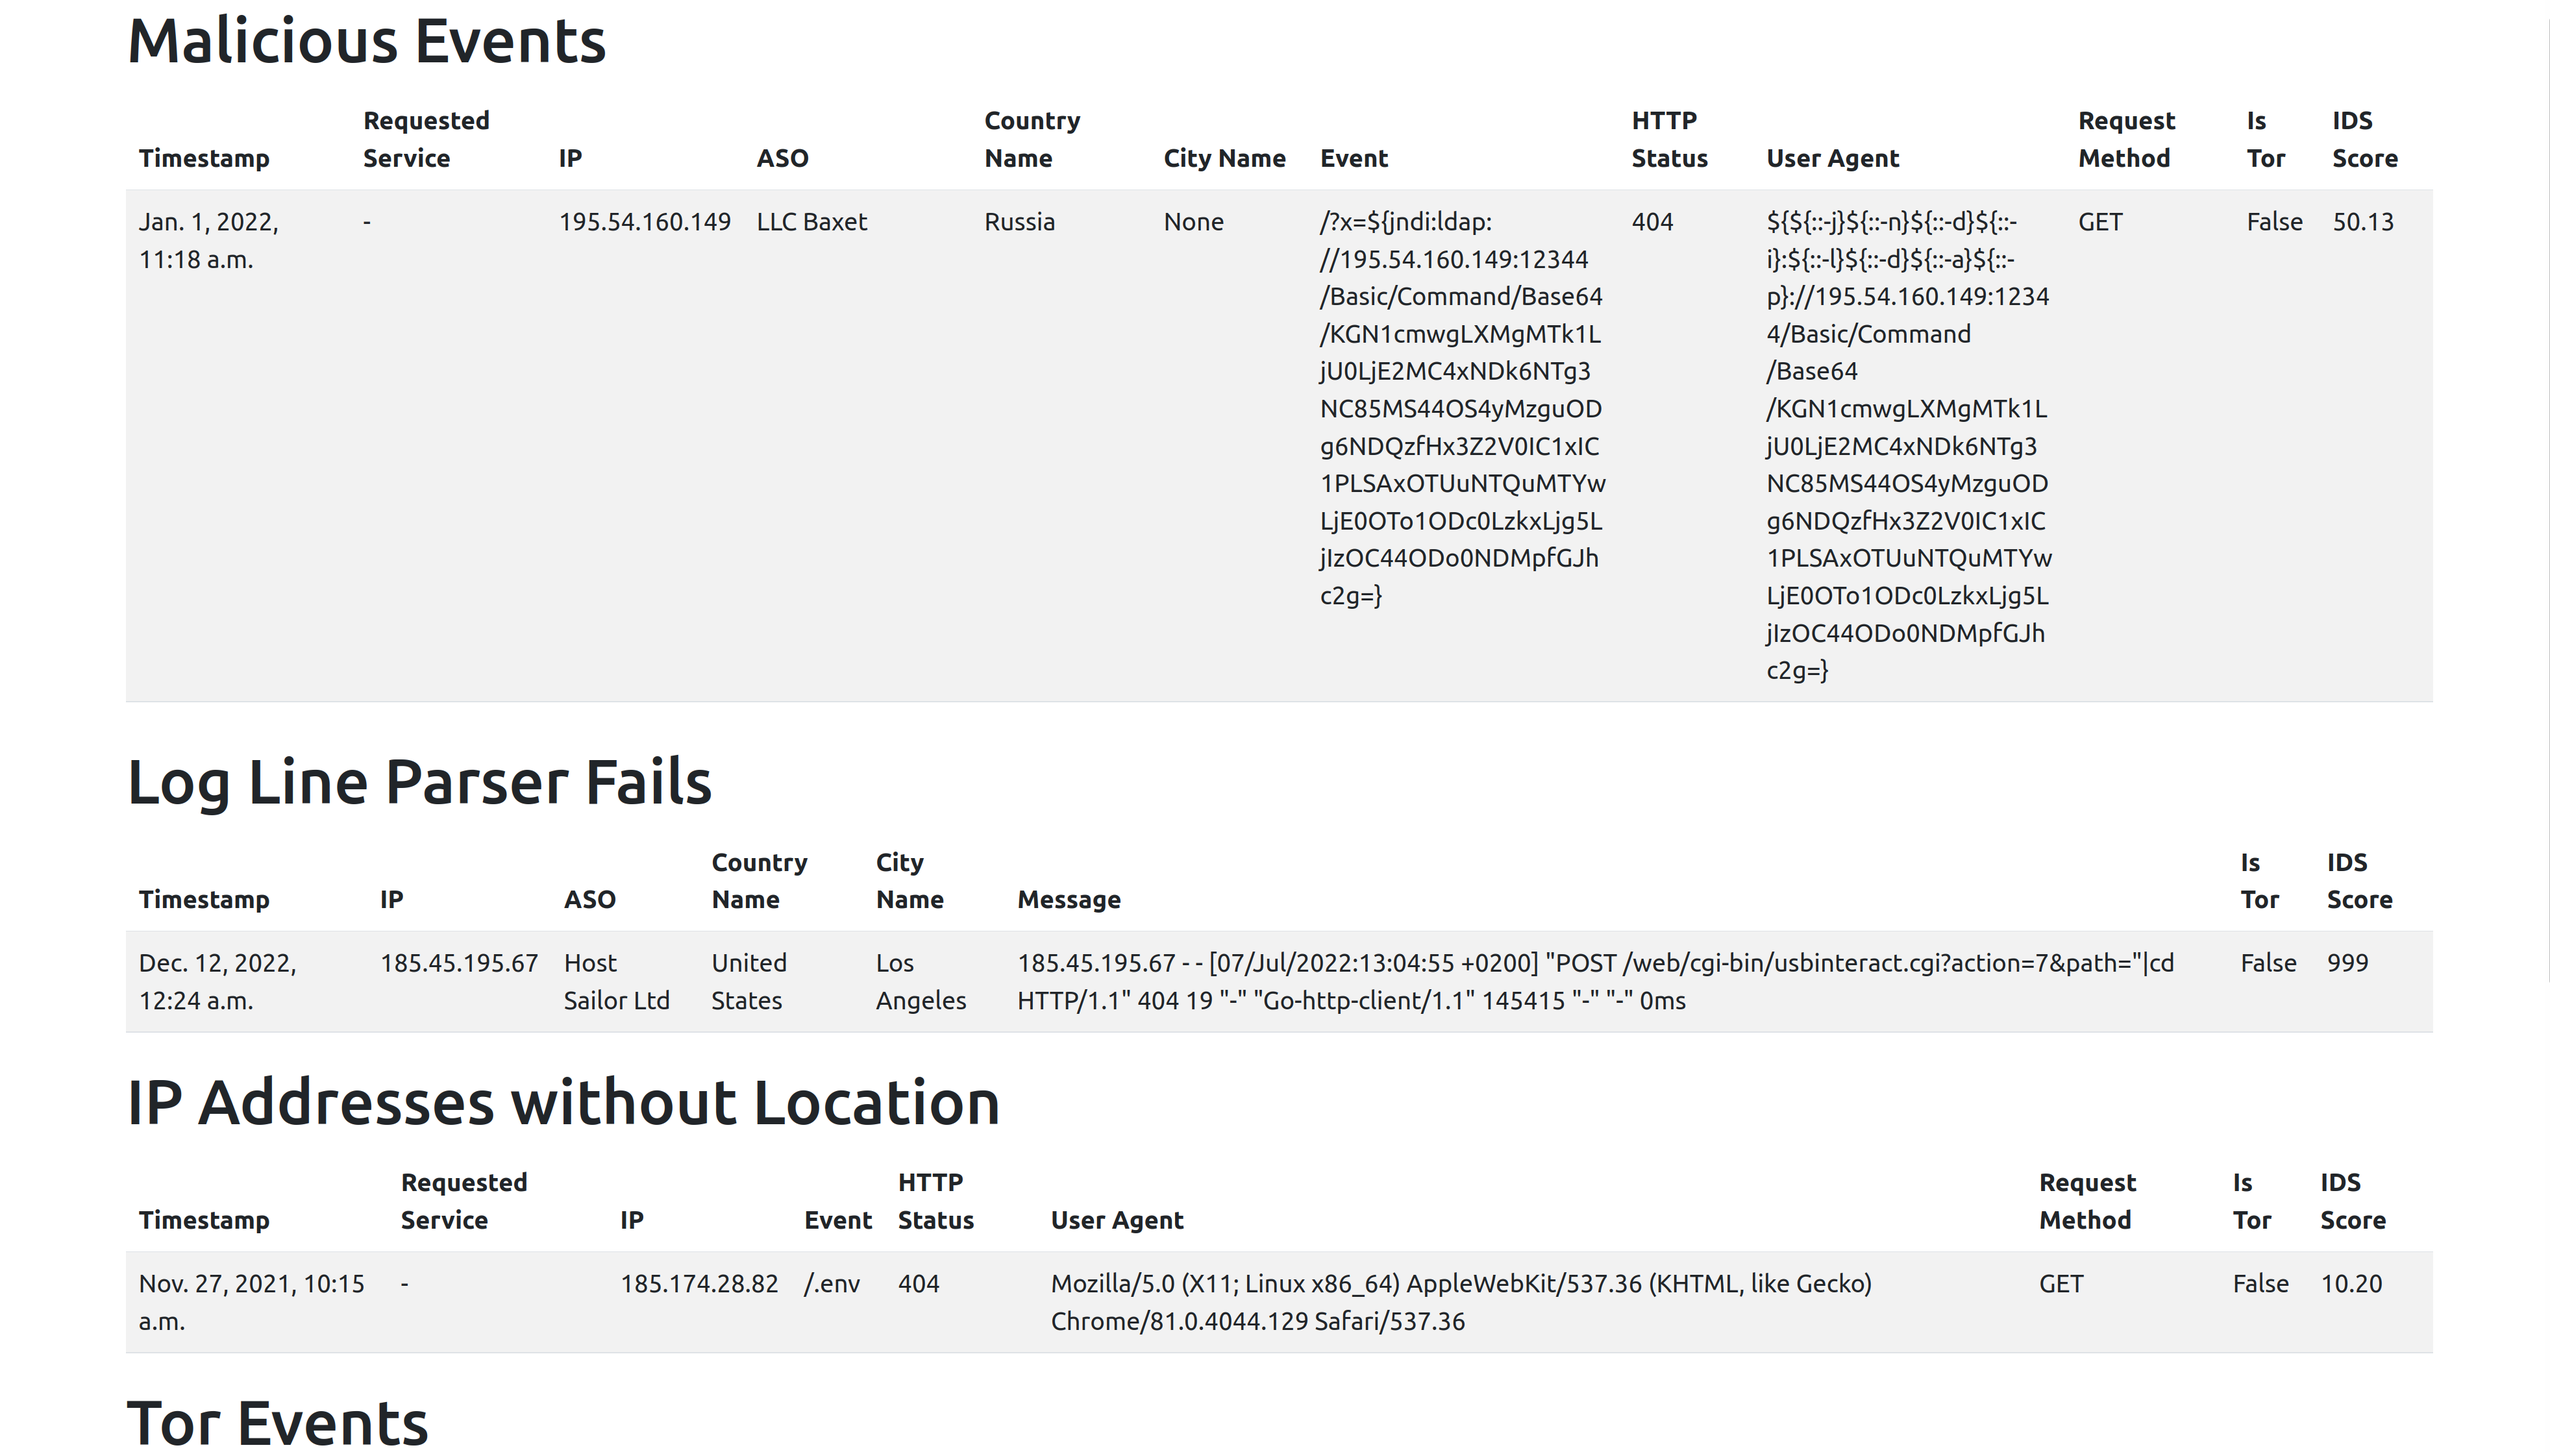
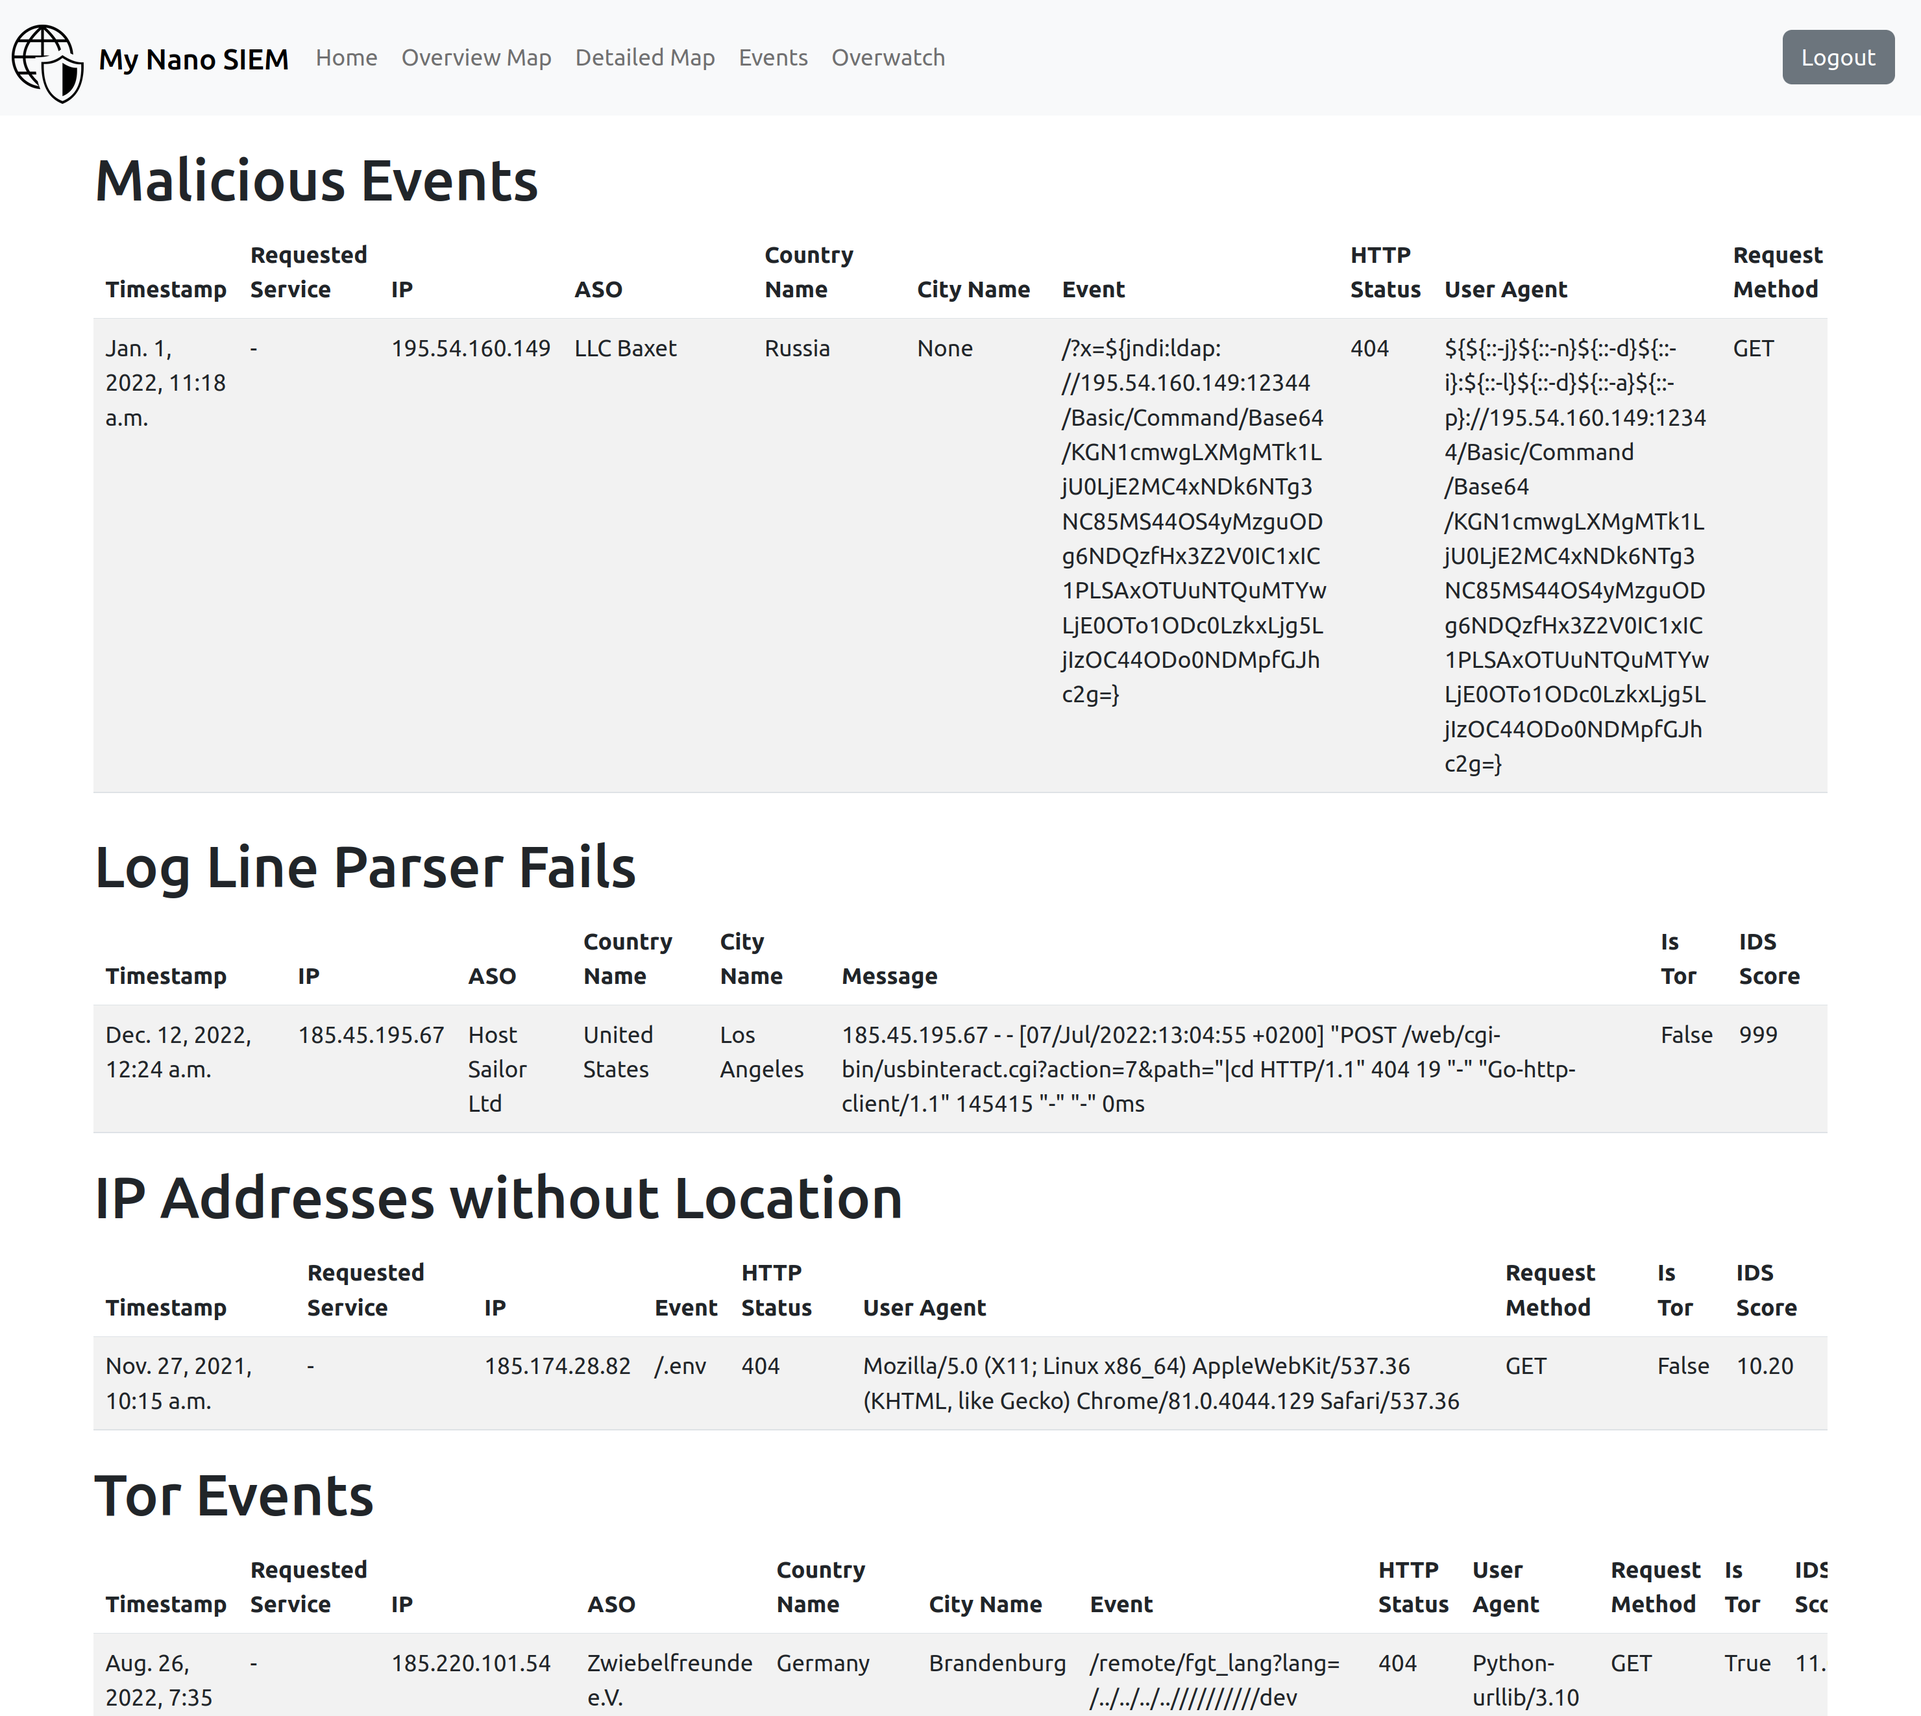
Update README with new screenshots and overwatch module description

diff --git a/README.md b/README.md
@@ -1,20 +1,24 @@
 # Nano SIEM
 
-The Nano SIEM project is a minimalistic *security information 
-and event management* (SIEM) system designed for private home servers.
-This project helps to get an insight into the access log file
-of a Traefik reverse proxy. It does this by resolving IPs to
-coordinates and displaying them on different map views. In the
-screenshot below you can see an example from the detailed map.
-On this map, you can click on locations and see the requests that
-were made from there. The accesses are ranged by their likelihood
-to be a hacking attempt. Furthermore, there is a second view
-that specifically lists hacking attempts. A screenshot of this view
-can be seen below as well. These functionalities help to get
-a better understanding of the server's security risks.
+The Nano SIEM project is a minimalist *Security Information 
+and Event Management* (SIEM) system designed for private home servers.
 
-Furthermore, the software is easy to set up and configure.
-A prebuild ready-to-use Docker container can be pulled from [Docker Hub](https://hub.docker.com/r/fabianhk/nano-siem).
+Nano SIEM has two main functionalities:
+One is to monitor the uptime of services and send an email notification if 
+a service is unavailable.
+The second functionality is to provide insight into the access log file of a 
+Traefik reverse proxy. It does this by resolving IPs into
+coordinates and displaying them on different map views. In the
+screenshot below you can see an example of the detailed map.
+On this map, you can click on locations and see the requests that
+have been made from that location. The requests are ranked according to their likelihood
+of being a hacking attempt. There is also a second view
+which specifically lists hacking attempts. A screenshot of this view
+can also be seen below. These features help to get
+a better understanding of the security risks on the server.
+
+The software is easy to set up and configure.
+A pre-built, ready-to-use Docker container can be pulled from [Docker Hub](https://hub.docker.com/r/fabianhk/nano-siem).
 If you need to parse a different log file format feel free to write
 a new plugin and open a pull request.
 
@@ -23,6 +27,9 @@ a new plugin and open a pull request.
 
 **Event View**
 ![Screenshot of Event View](doc/screenshot_event_view.png)
+
+**Overwatch View**
+![Screenshot of Overwatch View](doc/screenshot_overwatch.png)
 
 # Demo
 
